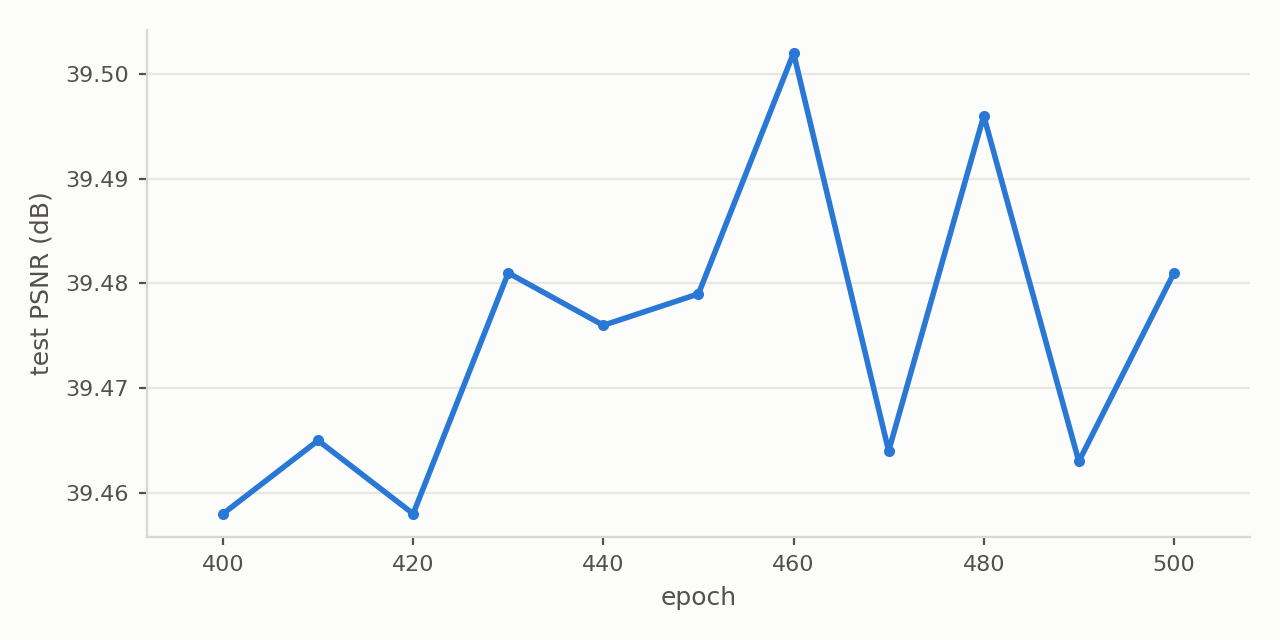
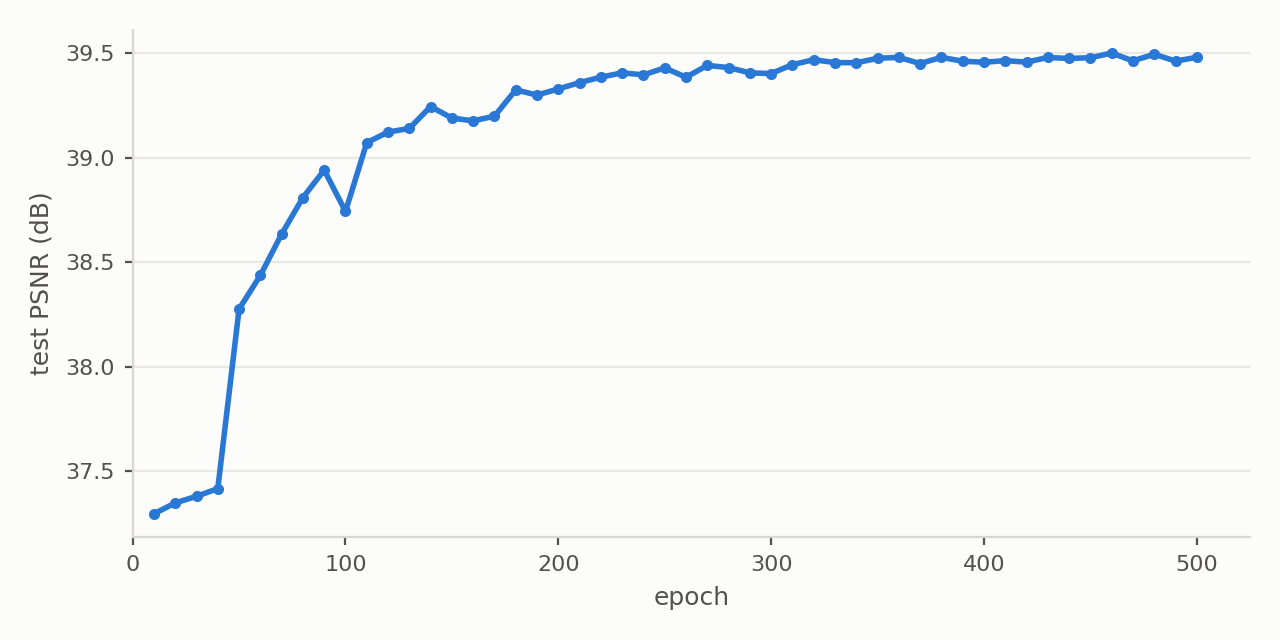
Publish the test-split PSNR of all fifty WorldView-3 checkpoints
One point every ten epochs, scored with the toolbox convention. Over epochs 400-500
the band spans 0.044 dB, matching the disclosure in Section IV-B; every point still
leads the strongest baseline.

diff --git a/plot_logs.py b/plot_logs.py
@@ -108,7 +108,7 @@ def plot_test_psnr(out_dir, csv_path):
 
     ax.set_xlabel("epoch", fontsize=9, color=INK_2)
     ax.set_ylabel("test PSNR (dB)", fontsize=9, color=INK_2)
-    ax.set_xlim(min(ep) - 8, max(ep) + 8)
+    ax.set_xlim(0, max(ep) * 1.05)
     ax.tick_params(labelsize=8, colors=INK_2, length=3)
     for side in ("top", "right"):
         ax.spines[side].set_visible(False)
@@ -126,4 +126,4 @@ def plot_test_psnr(out_dir, csv_path):
 
 if __name__ == "__main__":
     main()
-    plot_test_psnr("figures", os.path.join("data", "wv3_rr_sweep.csv"))
+    plot_test_psnr("figures", os.path.join("data", "wv3_test_psnr.csv"))

diff --git a/README.md b/README.md
@@ -137,17 +137,18 @@ on `valid_wv3.h5` — the split that is never used for gradient updates.
 
 ### Test-set PSNR over the sweep
 
-The numbers behind the checkpoint-selection disclosure of Section IV-B, plotted from
-`data/wv3_rr_sweep.csv` (WorldView-3, reduced resolution, 20 test images, one point
-every ten epochs):
+Test-split PSNR of **every** checkpoint of the WorldView-3 run — all fifty of them,
+one point every ten epochs, scored with the toolbox convention (30-px border,
+maxvalue 2047) and stored in `data/wv3_test_psnr.csv`:
 
 ![test PSNR sweep](figures/wv3_test_psnr.png)
 
-The band spans 39.458-39.502 dB, i.e. 0.044 dB, which is what the paper says the
-choice of checkpoint is worth. Every point in it still leads the strongest baseline
-(FusionMamba at 39.374 dB), which is the second half of the claim. The endpoints of
-the sweep are published as checkpoints as well, so both statements can be recomputed
-rather than taken on trust.
+The curve reaches its plateau around epoch 200 and then moves by hundredths of a dB:
+over the last hundred epochs (400-500) it spans 39.458-39.502 dB, i.e. **0.044 dB**,
+which is exactly what the paper says the choice of checkpoint is worth — and every
+point in that band still leads the strongest baseline (FusionMamba at 39.374 dB).
+Both statements can be recomputed from the released checkpoints rather than taken on
+trust: the two ends of the band are published alongside the reported model.
 
 ---
 
